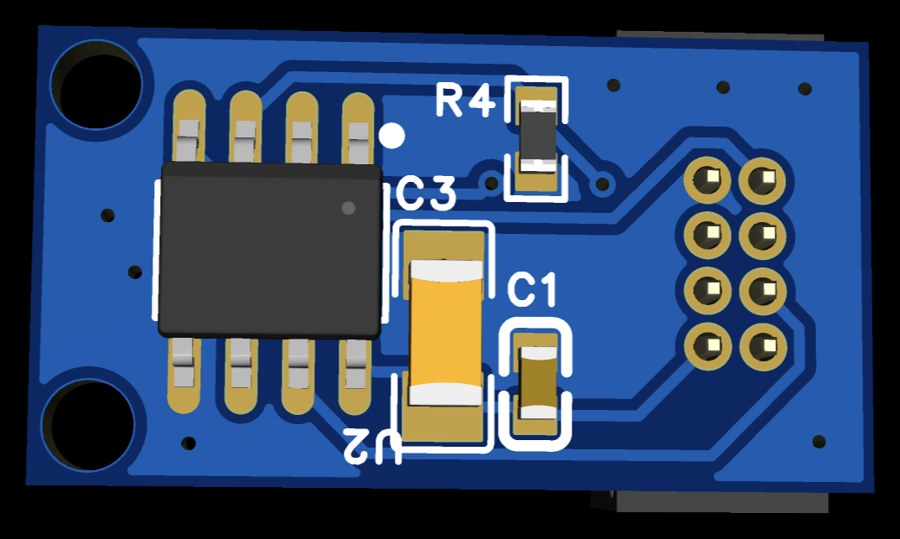
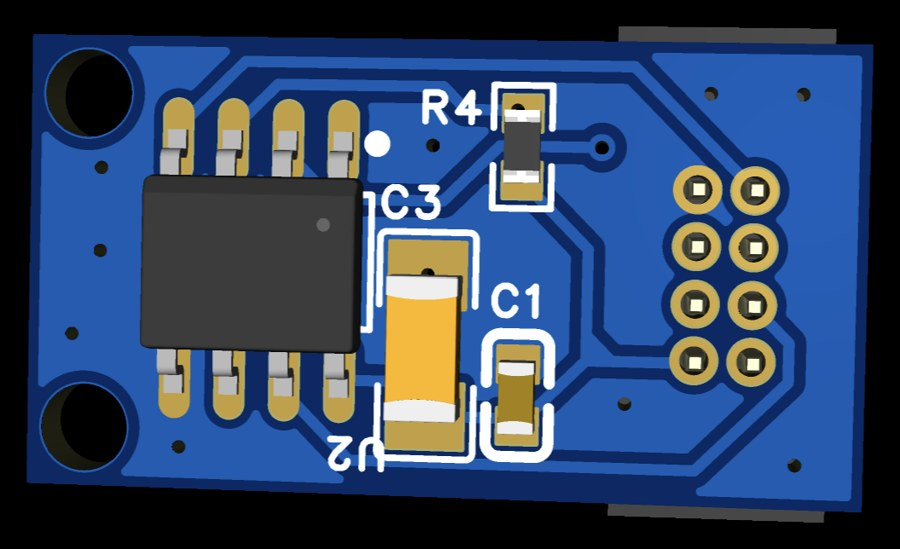
fix: week 7 slide 9 shows the 1.27 mm board V1.0.1 -- the user sent newer images of the 1.27 mm encoder board (V1.0.1): its 3D front and the PCB layout with CN1's pin assignment (3V3, CS, CLK, MOSI, GND, MISO); they replace the V1.0.0 front/back renders, each picture gets its own caption (앞면 / 뒷면 (박

diff --git a/week-07/index.html b/week-07/index.html
@@ -3,7 +3,7 @@
 <link rel="icon" href="data:,">
 <script src="vendor/react.production.min.js"></script><script src="vendor/react-dom.production.min.js"></script><script src="./support.js"></script></head>
 <body><x-dc><helmet><meta name="viewport" content="width=device-width, initial-scale=1"><title>7주차 자율 지게차 개발</title>
-<link rel="stylesheet" href="vendor/uos-slide-template/fonts/fonts.css"><link rel="stylesheet" href="vendor/uos-slide-template/_ds_bundle.css"><link rel="stylesheet" href="vendor/uos-slide-template/styles.css"><link rel="stylesheet" href="deck.css?v=ec0701f5c0d6"><script src="vendor/uos-slide-template/_ds_bundle.js"></script></helmet>
+<link rel="stylesheet" href="vendor/uos-slide-template/fonts/fonts.css"><link rel="stylesheet" href="vendor/uos-slide-template/_ds_bundle.css"><link rel="stylesheet" href="vendor/uos-slide-template/styles.css"><link rel="stylesheet" href="deck.css?v=49825ab341fc"><script src="vendor/uos-slide-template/_ds_bundle.js"></script></helmet>
 <x-import component-from-global-scope="deck-stage" from="./deck-stage.js" width="1280" height="720" hint-size="100%,100%">
 <section class="title-section" data-label="개발 진행 보고" data-screen-label="01" data-duration="20" data-speaker-notes="권장 20초
 
@@ -184,11 +184,11 @@ W3 통신: 지연 0.5 s · 허가 손실 20 % (CPU 모형): docs/plans/2026-10-0
 
 <section data-label="엔코더 보드 PCB" data-screen-label="09" data-duration="70" data-speaker-notes="권장 70초
 
-하드웨어는 엔코더 보드 PCB입니다. 5주차에 말씀드린 자석식 각도 센서 MT6701을 SOP-8 패키지로 올렸고, 2열 4핀 박스 헤더로 MCU 보드와 연결합니다. 위가 2.54밀리미터 커넥터 판, 아래가 1.27밀리미터 커넥터로 바꾼 판이고, 왼쪽이 앞면, 오른쪽이 뒷면입니다. 2.54밀리미터 판은 뒷면 커넥터가 보드보다 크게 튀어나와 있습니다. 그래서 두 판을 모두 그려 봤고, 어느 쪽으로 갈지 여쭤보고 싶습니다. 1.27밀리미터로 바꾸면 커넥터가 가로세로 절반 정도로 줄어 보드를 작게 만들 수 있지만, 납땜이 까다롭고 맞는 케이블의 선택지가 적습니다. 2.54밀리미터는 크지만 손납땜이 쉽고 박스 헤더용 납작 케이블을 쉽게 구할 수 있습니다. 실차에 달 때 어느 쪽이 나은지 의견 부탁드립니다. (전환)
+하드웨어는 엔코더 보드 PCB입니다. 5주차에 말씀드린 자석식 각도 센서 MT6701을 SOP-8 패키지로 올렸고, 2열 4핀 박스 헤더로 MCU 보드와 연결합니다. 위가 2.54밀리미터 커넥터 판, 아래가 1.27밀리미터 커넥터로 바꾼 판입니다. 아래 오른쪽은 1.27밀리미터 판의 배치도로, 커넥터 여덟 핀에 전원과 SPI 신호를 배정했습니다. 2.54밀리미터 판은 뒷면 커넥터가 보드보다 크게 튀어나와 있습니다. 그래서 두 판을 모두 그려 봤고, 어느 쪽으로 갈지 여쭤보고 싶습니다. 1.27밀리미터로 바꾸면 커넥터가 가로세로 절반 정도로 줄어 보드를 작게 만들 수 있지만, 납땜이 까다롭고 맞는 케이블의 선택지가 적습니다. 2.54밀리미터는 크지만 손납땜이 쉽고 박스 헤더용 납작 케이블을 쉽게 구할 수 있습니다. 실차에 달 때 어느 쪽이 나은지 의견 부탁드립니다. (전환)
 
 [Sources]
-그림: 팀 PCB 3D 렌더 네 장 — 2.54 mm 판 · 1.27 mm 판 앞뒷면 (배경만 잘라 냄)
-엔코더 보드 앞면 · 뒷면 — U2(MT6701, SOP-8, 사용자 확인 2026-10-14) · C1 · C3 · R4 · 2×4 박스 헤더 · 고정 구멍 2개; 같은 날 커넥터를 1.27 mm 로 줄인 판의 앞면 · 뒷면(뒷면 실크 「KTH_Enc V1.0.0」): 팀 PCB 3D 렌더 (2026-10-14, 팀원 공유)
+그림: 팀 PCB 자료 네 장 — 2.54 mm 판 앞 · 뒷면 3D, 1.27 mm 판(V1.0.1) 앞면 3D와 배치도 (배경만 잘라 냄)
+엔코더 보드 앞면 · 뒷면 — U2(MT6701, SOP-8, 사용자 확인 2026-10-14) · C1 · C3 · R4 · 2×4 박스 헤더 · 고정 구멍 2개; 같은 날 커넥터를 1.27 mm 로 줄인 판(V1.0.1)의 3D 앞면과 PCB 배치도 — CN1 핀 1 3V3 · 2 CS · 4 CLK · 6 MOSI · 7 GND · 8 MISO: 팀 PCB 3D 렌더 (2026-10-14, 팀원 공유)
 5주차 회로 초안: MT6701 증분판(ABZ) · 절대각판(SSI), 같은 2.54 mm 2×4 헤더: week-05/build_deck.py 8쪽
 「교수님에게 2.54 VS 1.27 물어보죠」: 팀 메시지 (2026-10-14)
 1.27 mm 는 2.54 mm 의 절반 간격 — 같은 핀 수면 커넥터 가로 · 세로가 약 절반 (기하 계산, 하우징 두께 제외): 비교 표
@@ -198,12 +198,11 @@ W3 통신: 지연 0.5 s · 허가 손실 20 % (CPU 모형): docs/plans/2026-10-0
 <div class="pcb7 grow">
 <div class="pcbimgs">
 <p class="rl">2.54 mm</p>
-<figure class="shot"><img class="media" src="assets/75_enc_top.jpg" alt="2.54 mm 판 앞면. 왼쪽에 8핀 칩 U2와 고정 구멍 두 개, 가운데 C1 · C3 · R4, 오른쪽에 2열 4핀 단자"></figure>
-<figure class="shot"><img class="media" src="assets/75_enc_bottom.jpg" alt="2.54 mm 판 뒷면. 2열 4핀 박스 헤더가 보드보다 크게 나와 있음"></figure>
+<figure class="shot"><img class="media" src="assets/75_enc_top.jpg" alt="2.54 mm 판 앞면. 왼쪽에 8핀 칩 U2와 고정 구멍 두 개, 가운데 C1 · C3 · R4, 오른쪽에 2열 4핀 단자"><figcaption>앞면</figcaption></figure>
+<figure class="shot"><img class="media" src="assets/75_enc_bottom.jpg" alt="2.54 mm 판 뒷면. 2열 4핀 박스 헤더가 보드보다 크게 나와 있음"><figcaption>뒷면 (박스 헤더)</figcaption></figure>
 <p class="rl">1.27 mm</p>
-<figure class="shot"><img class="media" src="assets/75_enc127_top.jpg" alt="1.27 mm 판 앞면. 같은 부품 배치에 2열 4핀 단자가 촘촘해짐"></figure>
-<figure class="shot"><img class="media" src="assets/75_enc127_bottom.jpg" alt="1.27 mm 판 뒷면. 박스 헤더가 작아져 보드 폭 안에 가까워짐"></figure>
-<p></p><p class="cl">앞면</p><p class="cl">뒷면 (박스 헤더)</p>
+<figure class="shot"><img class="media" src="assets/75_enc127_top.jpg" alt="1.27 mm 판 앞면. 같은 부품 배치에 2열 4핀 단자가 촘촘해짐"><figcaption>앞면</figcaption></figure>
+<figure class="shot"><img class="media" src="assets/75_enc127_layout.jpg" alt="1.27 mm 판 PCB 배치도. 2열 4핀 커넥터 CN1 에 3V3, CS, CLK, MOSI, MISO, GND 가 배정되어 있고 실크에 KTH_Enc V1.0.1"><figcaption>배치도 (CN1 핀 배정)</figcaption></figure>
 </div>
 <table class="comparison t7 pcbq7">
 <tr><th>핀 간격</th><th>2.54 mm</th><th>1.27 mm</th></tr>

diff --git a/week-07/deck.css b/week-07/deck.css
@@ -576,8 +576,9 @@ video::-webkit-media-controls, video::-webkit-media-controls-enclosure { display
 .comparison.t7.pcbq7 td, .comparison.t7.pcbq7 th { padding:12px 10px; }
 .pcb7 .shot .media { border:0; outline:0; box-shadow:none; }
 .comparison.t7.pcbq7 td { white-space:nowrap; }
-.pcbimgs { display:grid; grid-template-columns:auto 1fr 1fr; grid-template-rows:minmax(0,1fr) minmax(0,1fr) auto; gap:8px 10px; height:100%; min-height:0; align-items:center; }
+.pcbimgs { display:grid; grid-template-columns:auto 1fr 1fr; grid-template-rows:minmax(0,1fr) minmax(0,1fr); gap:8px 10px; height:100%; min-height:0; align-items:center; }
 .pcbimgs .shot { padding:4px; }
 .pcbimgs .rl { font-size:20px; font-weight:700; color:#44505c; writing-mode:horizontal-tb; white-space:nowrap; }
 .pcbimgs .rl.now { color:var(--uos-blue); }
 .pcbimgs .cl { font-size:17px; color:#44505c; text-align:center; margin:0; }
+.pcbimgs .shot figcaption { color:#e8ecf1; font-size:16px; margin-top:2px; }

diff --git a/week-07/build_deck.py b/week-07/build_deck.py
@@ -252,12 +252,11 @@ add('엔코더 보드 PCB', '08  엔코더 보드 PCB', 70, """
 <div class="pcb7 grow">
 <div class="pcbimgs">
 <p class="rl">2.54 mm</p>
-<figure class="shot"><img class="media" src="assets/75_enc_top.jpg" alt="2.54 mm 판 앞면. 왼쪽에 8핀 칩 U2와 고정 구멍 두 개, 가운데 C1 · C3 · R4, 오른쪽에 2열 4핀 단자"></figure>
-<figure class="shot"><img class="media" src="assets/75_enc_bottom.jpg" alt="2.54 mm 판 뒷면. 2열 4핀 박스 헤더가 보드보다 크게 나와 있음"></figure>
+<figure class="shot"><img class="media" src="assets/75_enc_top.jpg" alt="2.54 mm 판 앞면. 왼쪽에 8핀 칩 U2와 고정 구멍 두 개, 가운데 C1 · C3 · R4, 오른쪽에 2열 4핀 단자"><figcaption>앞면</figcaption></figure>
+<figure class="shot"><img class="media" src="assets/75_enc_bottom.jpg" alt="2.54 mm 판 뒷면. 2열 4핀 박스 헤더가 보드보다 크게 나와 있음"><figcaption>뒷면 (박스 헤더)</figcaption></figure>
 <p class="rl">1.27 mm</p>
-<figure class="shot"><img class="media" src="assets/75_enc127_top.jpg" alt="1.27 mm 판 앞면. 같은 부품 배치에 2열 4핀 단자가 촘촘해짐"></figure>
-<figure class="shot"><img class="media" src="assets/75_enc127_bottom.jpg" alt="1.27 mm 판 뒷면. 박스 헤더가 작아져 보드 폭 안에 가까워짐"></figure>
-<p></p><p class="cl">앞면</p><p class="cl">뒷면 (박스 헤더)</p>
+<figure class="shot"><img class="media" src="assets/75_enc127_top.jpg" alt="1.27 mm 판 앞면. 같은 부품 배치에 2열 4핀 단자가 촘촘해짐"><figcaption>앞면</figcaption></figure>
+<figure class="shot"><img class="media" src="assets/75_enc127_layout.jpg" alt="1.27 mm 판 PCB 배치도. 2열 4핀 커넥터 CN1 에 3V3, CS, CLK, MOSI, MISO, GND 가 배정되어 있고 실크에 KTH_Enc V1.0.1"><figcaption>배치도 (CN1 핀 배정)</figcaption></figure>
 </div>
 <table class="comparison t7 pcbq7">
 <tr><th>핀 간격</th><th>2.54 mm</th><th>1.27 mm</th></tr>
@@ -268,12 +267,12 @@ add('엔코더 보드 PCB', '08  엔코더 보드 PCB', 70, """
 </div>
 <div class="takeaway">엔코더 커넥터 핀 간격은 2.54 mm (납땜이 쉬움)와 1.27 mm (보드가 작아짐) 중 어느 쪽이 나을까요?</div>
 """,
-    """하드웨어는 엔코더 보드 PCB입니다. 5주차에 말씀드린 자석식 각도 센서 MT6701을 SOP-8 패키지로 올렸고, 2열 4핀 박스 헤더로 MCU 보드와 연결합니다. 위가 2.54밀리미터 커넥터 판, 아래가 1.27밀리미터 커넥터로 바꾼 판이고, 왼쪽이 앞면, 오른쪽이 뒷면입니다. 2.54밀리미터 판은 뒷면 커넥터가 보드보다 크게 튀어나와 있습니다. 그래서 두 판을 모두 그려 봤고, 어느 쪽으로 갈지 여쭤보고 싶습니다. 1.27밀리미터로 바꾸면 커넥터가 가로세로 절반 정도로 줄어 보드를 작게 만들 수 있지만, 납땜이 까다롭고 맞는 케이블의 선택지가 적습니다. 2.54밀리미터는 크지만 손납땜이 쉽고 박스 헤더용 납작 케이블을 쉽게 구할 수 있습니다. 실차에 달 때 어느 쪽이 나은지 의견 부탁드립니다. (전환)""",
-    [('팀 PCB 3D 렌더 (2026-10-14, 팀원 공유)', '엔코더 보드 앞면 · 뒷면 — U2(MT6701, SOP-8, 사용자 확인 2026-10-14) · C1 · C3 · R4 · 2×4 박스 헤더 · 고정 구멍 2개; 같은 날 커넥터를 1.27 mm 로 줄인 판의 앞면 · 뒷면(뒷면 실크 「KTH_Enc V1.0.0」)'),
+    """하드웨어는 엔코더 보드 PCB입니다. 5주차에 말씀드린 자석식 각도 센서 MT6701을 SOP-8 패키지로 올렸고, 2열 4핀 박스 헤더로 MCU 보드와 연결합니다. 위가 2.54밀리미터 커넥터 판, 아래가 1.27밀리미터 커넥터로 바꾼 판입니다. 아래 오른쪽은 1.27밀리미터 판의 배치도로, 커넥터 여덟 핀에 전원과 SPI 신호를 배정했습니다. 2.54밀리미터 판은 뒷면 커넥터가 보드보다 크게 튀어나와 있습니다. 그래서 두 판을 모두 그려 봤고, 어느 쪽으로 갈지 여쭤보고 싶습니다. 1.27밀리미터로 바꾸면 커넥터가 가로세로 절반 정도로 줄어 보드를 작게 만들 수 있지만, 납땜이 까다롭고 맞는 케이블의 선택지가 적습니다. 2.54밀리미터는 크지만 손납땜이 쉽고 박스 헤더용 납작 케이블을 쉽게 구할 수 있습니다. 실차에 달 때 어느 쪽이 나은지 의견 부탁드립니다. (전환)""",
+    [('팀 PCB 3D 렌더 (2026-10-14, 팀원 공유)', '엔코더 보드 앞면 · 뒷면 — U2(MT6701, SOP-8, 사용자 확인 2026-10-14) · C1 · C3 · R4 · 2×4 박스 헤더 · 고정 구멍 2개; 같은 날 커넥터를 1.27 mm 로 줄인 판(V1.0.1)의 3D 앞면과 PCB 배치도 — CN1 핀 1 3V3 · 2 CS · 4 CLK · 6 MOSI · 7 GND · 8 MISO'),
      ('week-05/build_deck.py 8쪽', '5주차 회로 초안: MT6701 증분판(ABZ) · 절대각판(SSI), 같은 2.54 mm 2×4 헤더'),
      ('팀 메시지 (2026-10-14)', '「교수님에게 2.54 VS 1.27 물어보죠」'),
      ('비교 표', '1.27 mm 는 2.54 mm 의 절반 간격 — 같은 핀 수면 커넥터 가로 · 세로가 약 절반 (기하 계산, 하우징 두께 제외)')],
-    '그림: 팀 PCB 3D 렌더 네 장 — 2.54 mm 판 · 1.27 mm 판 앞뒷면 (배경만 잘라 냄)')
+    '그림: 팀 PCB 자료 네 장 — 2.54 mm 판 앞 · 뒷면 3D, 1.27 mm 판(V1.0.1) 앞면 3D와 배치도 (배경만 잘라 냄)')
 
 # ----------------------------------------------------------------- 10
 NEXT_ROWS = [

diff --git a/week-07/SCRIPT.md b/week-07/SCRIPT.md
@@ -91,10 +91,10 @@ W3 통신: 지연 0.5 s · 허가 손실 20 % (CPU 모형): docs/plans/2026-10-0
 
 ## 9쪽 · 엔코더 보드 PCB (07:20–08:30, 70초)
 
-하드웨어는 엔코더 보드 PCB입니다. 5주차에 말씀드린 자석식 각도 센서 MT6701을 SOP-8 패키지로 올렸고, 2열 4핀 박스 헤더로 MCU 보드와 연결합니다. 위가 2.54밀리미터 커넥터 판, 아래가 1.27밀리미터 커넥터로 바꾼 판이고, 왼쪽이 앞면, 오른쪽이 뒷면입니다. 2.54밀리미터 판은 뒷면 커넥터가 보드보다 크게 튀어나와 있습니다. 그래서 두 판을 모두 그려 봤고, 어느 쪽으로 갈지 여쭤보고 싶습니다. 1.27밀리미터로 바꾸면 커넥터가 가로세로 절반 정도로 줄어 보드를 작게 만들 수 있지만, 납땜이 까다롭고 맞는 케이블의 선택지가 적습니다. 2.54밀리미터는 크지만 손납땜이 쉽고 박스 헤더용 납작 케이블을 쉽게 구할 수 있습니다. 실차에 달 때 어느 쪽이 나은지 의견 부탁드립니다. (전환)
+하드웨어는 엔코더 보드 PCB입니다. 5주차에 말씀드린 자석식 각도 센서 MT6701을 SOP-8 패키지로 올렸고, 2열 4핀 박스 헤더로 MCU 보드와 연결합니다. 위가 2.54밀리미터 커넥터 판, 아래가 1.27밀리미터 커넥터로 바꾼 판입니다. 아래 오른쪽은 1.27밀리미터 판의 배치도로, 커넥터 여덟 핀에 전원과 SPI 신호를 배정했습니다. 2.54밀리미터 판은 뒷면 커넥터가 보드보다 크게 튀어나와 있습니다. 그래서 두 판을 모두 그려 봤고, 어느 쪽으로 갈지 여쭤보고 싶습니다. 1.27밀리미터로 바꾸면 커넥터가 가로세로 절반 정도로 줄어 보드를 작게 만들 수 있지만, 납땜이 까다롭고 맞는 케이블의 선택지가 적습니다. 2.54밀리미터는 크지만 손납땜이 쉽고 박스 헤더용 납작 케이블을 쉽게 구할 수 있습니다. 실차에 달 때 어느 쪽이 나은지 의견 부탁드립니다. (전환)
 
 [Sources]
-엔코더 보드 앞면 · 뒷면 — U2(MT6701, SOP-8, 사용자 확인 2026-10-14) · C1 · C3 · R4 · 2×4 박스 헤더 · 고정 구멍 2개; 같은 날 커넥터를 1.27 mm 로 줄인 판의 앞면 · 뒷면(뒷면 실크 「KTH_Enc V1.0.0」): 팀 PCB 3D 렌더 (2026-10-14, 팀원 공유)
+엔코더 보드 앞면 · 뒷면 — U2(MT6701, SOP-8, 사용자 확인 2026-10-14) · C1 · C3 · R4 · 2×4 박스 헤더 · 고정 구멍 2개; 같은 날 커넥터를 1.27 mm 로 줄인 판(V1.0.1)의 3D 앞면과 PCB 배치도 — CN1 핀 1 3V3 · 2 CS · 4 CLK · 6 MOSI · 7 GND · 8 MISO: 팀 PCB 3D 렌더 (2026-10-14, 팀원 공유)
 5주차 회로 초안: MT6701 증분판(ABZ) · 절대각판(SSI), 같은 2.54 mm 2×4 헤더: week-05/build_deck.py 8쪽
 「교수님에게 2.54 VS 1.27 물어보죠」: 팀 메시지 (2026-10-14)
 1.27 mm 는 2.54 mm 의 절반 간격 — 같은 핀 수면 커넥터 가로 · 세로가 약 절반 (기하 계산, 하우징 두께 제외): 비교 표

diff --git a/week-07/VALIDATION.md b/week-07/VALIDATION.md
@@ -18,3 +18,4 @@
 - 같은 날 팀 PCB 3D 렌더(엔코더 보드, MT6701 SOP-8 — 사용자 확인)와 팀 메시지 「교수님에게 2.54 VS 1.27 물어보죠」를 받아 9쪽 엔코더 보드 PCB 장을 넣었다(사용자 선택: 교수님 질문으로). 앞면 · 뒷면 렌더 + 핀 간격 2.54 / 1.27 mm 비교 표, 띠는 질문. 2쪽 요약 표에 하드웨어 행, 10쪽 다음 작업에 하드웨어 행("커넥터 핀 간격 결정 후 제작")을 다시 넣었다. 10장 · 560초. 2 · 9 · 10쪽 1920 × 1080 렌더 확인(9쪽 그림 테두리 · 표 줄바꿈 고침).
 - 같은 날 커넥터를 1.27 mm 로 줄인 판의 렌더 두 장을 받아 9쪽을 두 판의 앞면 · 뒷면 2 × 2 비교로 바꿨다(두 판 라벨은 같은 색 — 아직 결정 전). 9쪽 1920 × 1080 렌더 확인.
 - 사용자 지시(2026-10-14, my-writing-style 적용 전체 재검토): 화면 문구에서 `라벨: 내용` 꼴을 모두 없앴다. 헤드라인은 콜론 없는 구로(예: "이번 주: … · 엔코더 보드 PCB" → "지게차 여러 대가 막히지 않고 다니는 교통 관리와 엔코더 보드 PCB"), 띠는 라벨 없는 합니다체 한 문장으로(배경: / 필요한 것: / 교착이 없는 이유: / 평가: / 조건: / 전제: / 질문: / 다음 목표: 삭제, 9쪽은 질문 문장), 표 · 범례 · 캡션의 ` · ` 명사 나열은 `와/과` · 쉼표로 풀었다("색 = 먼저 지나갈 트럭" → "색은 먼저 지나갈 트럭" 등). 수치 · 사실은 그대로. 원고는 6쪽 한 문장만 다듬었다. 2–10쪽 1920 × 1080 렌더로 헤드라인 · 띠 한 줄 확인.
+- 사용자 지시(2026-10-14 "이미지 이걸로 바꾸셈"): 1.27 mm 판 그림을 V1.0.1 의 3D 앞면과 PCB 배치도(CN1 핀 배정)로 바꾸고, 그림마다 캡션(앞면 · 뒷면 (박스 헤더) · 배치도 (CN1 핀 배정))을 달았다. 원고에 배치도 설명 한 문장. 9쪽 1920 × 1080 렌더 확인.

diff --git a/week-07/SOURCES.md b/week-07/SOURCES.md
@@ -18,7 +18,7 @@
 | `assets/72_close_a.mp4`, `72_close_b.mp4` | 4 | 같은 실행(tw24_rack600)을 카메라만 두 대기 지점 위로 옮겨 다시 렌더(ws1 `~/w7deck/exp/runs/close_rack600`) 한 합성 영상에서 두 대기 장면을 자름 |
 | `assets/73_{rack,shop,multi}.jpg` | 2, 5 | ws1 `artifacts/20261009_fleet_worlds/videos/tw24_*600.mp4` 150 s(시뮬레이션 450 s) 프레임의 지도 칸 |
 | `assets/75_enc_top.jpg`, `75_enc_bottom.jpg` | 9 | 팀 엔코더 보드 PCB 3D 렌더 두 장(2026-10-14 팀원 공유, LCEDA) — 알파 배경을 검정으로, 여백만 잘라 900 px 로 줄임. 칩은 MT6701 SOP-8(사용자 확인) |
-| `assets/75_enc127_top.jpg`, `75_enc127_bottom.jpg` | 9 | 커넥터를 1.27 mm 로 줄인 판의 렌더 두 장(같은 날 공유) — 같은 처리 |
+| `assets/75_enc127_top.jpg`, `75_enc127_layout.jpg` | 9 | 커넥터를 1.27 mm 로 줄인 판(V1.0.1)의 3D 앞면과 PCB 배치도(같은 날 공유, V1.0.0 렌더를 대체) — 3D 는 같은 처리, 배치도는 크기만 줄임 |
 | `assets/74_rack600.mp4` | 7 | `tw24_rack600.mp4`(ws1 job 2441 · 2442) 지도 칸, 5배속 |
 
 범례 색은 합성 스크립트(`tools/compose_fleet_video.py`, `tools/compose_world_video.py`)의 색 그대로다.
